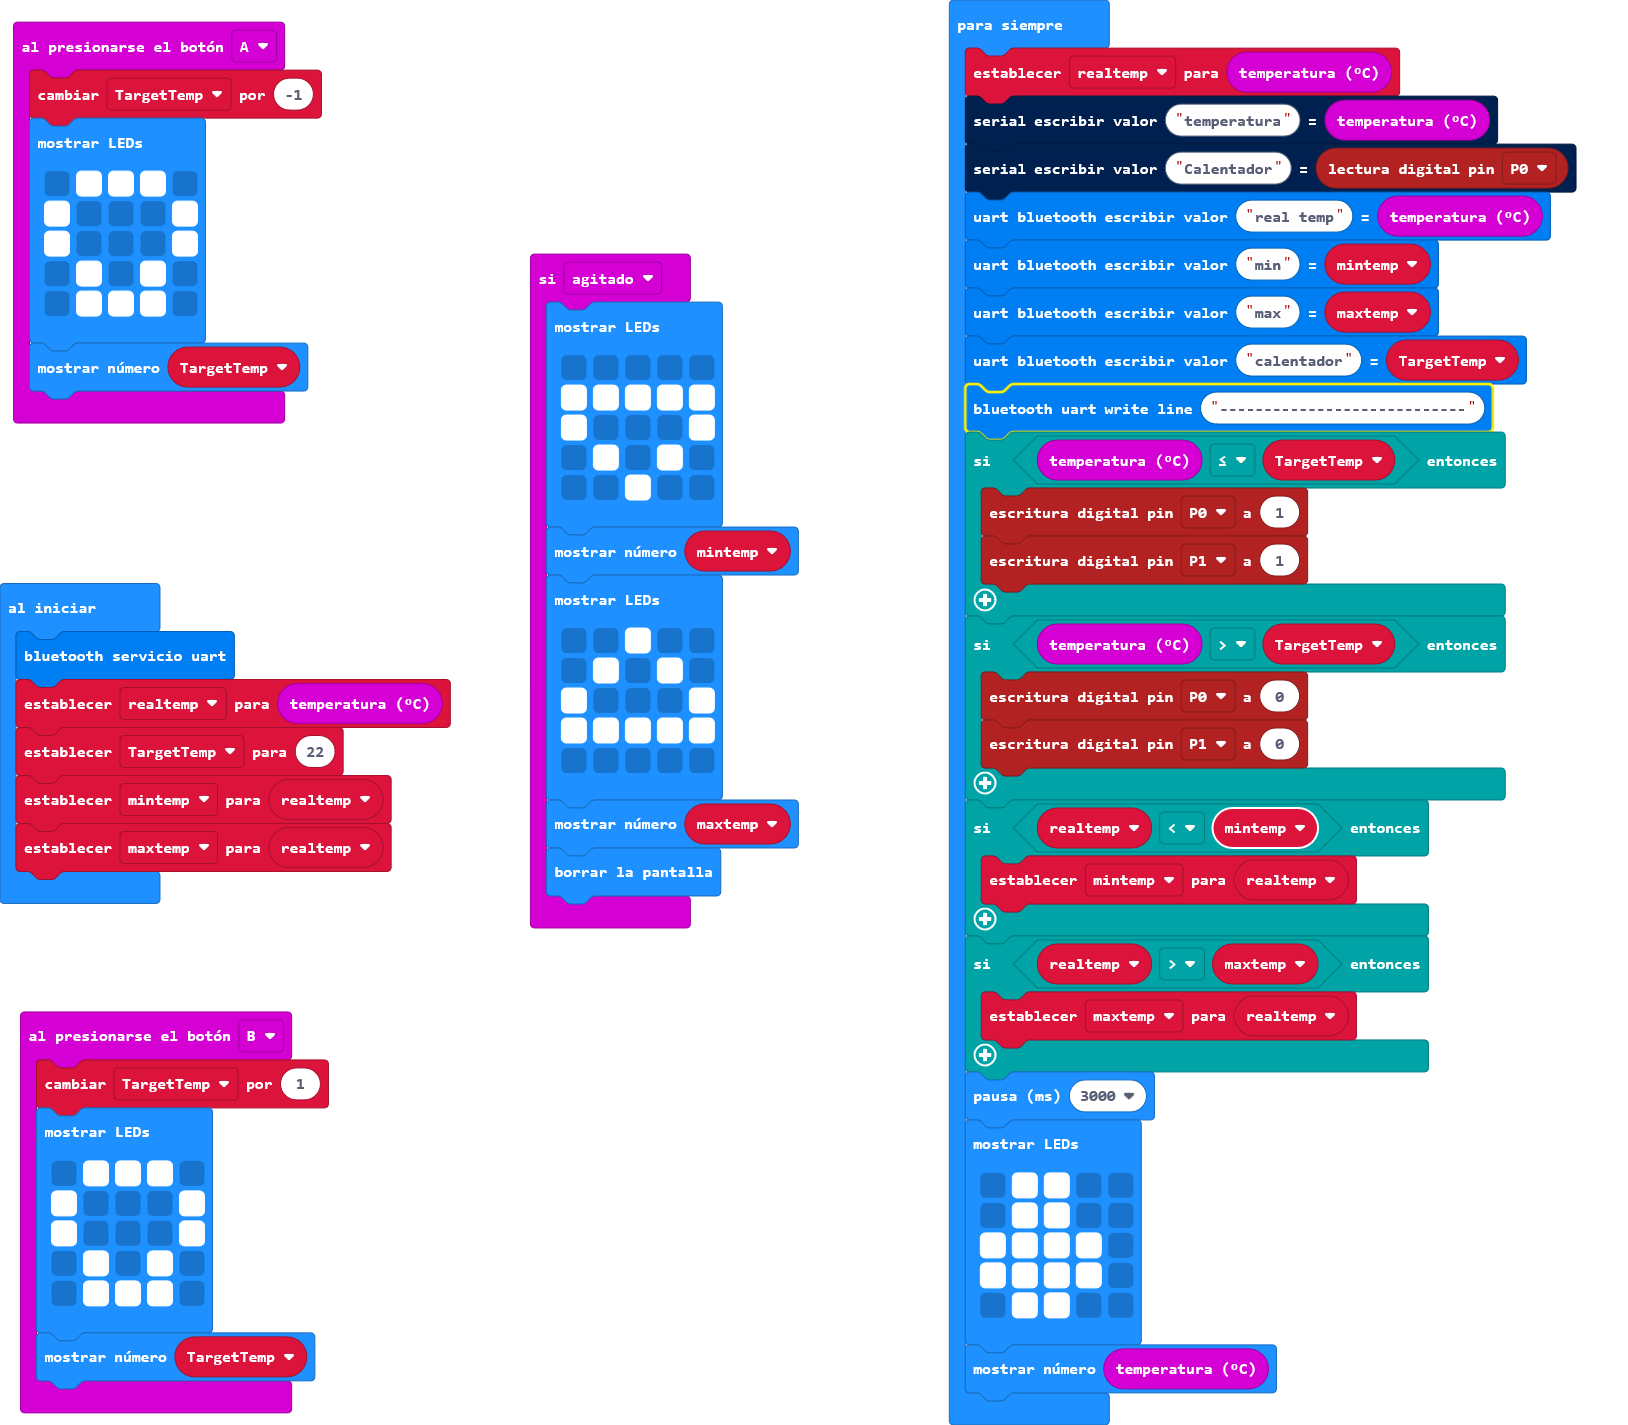
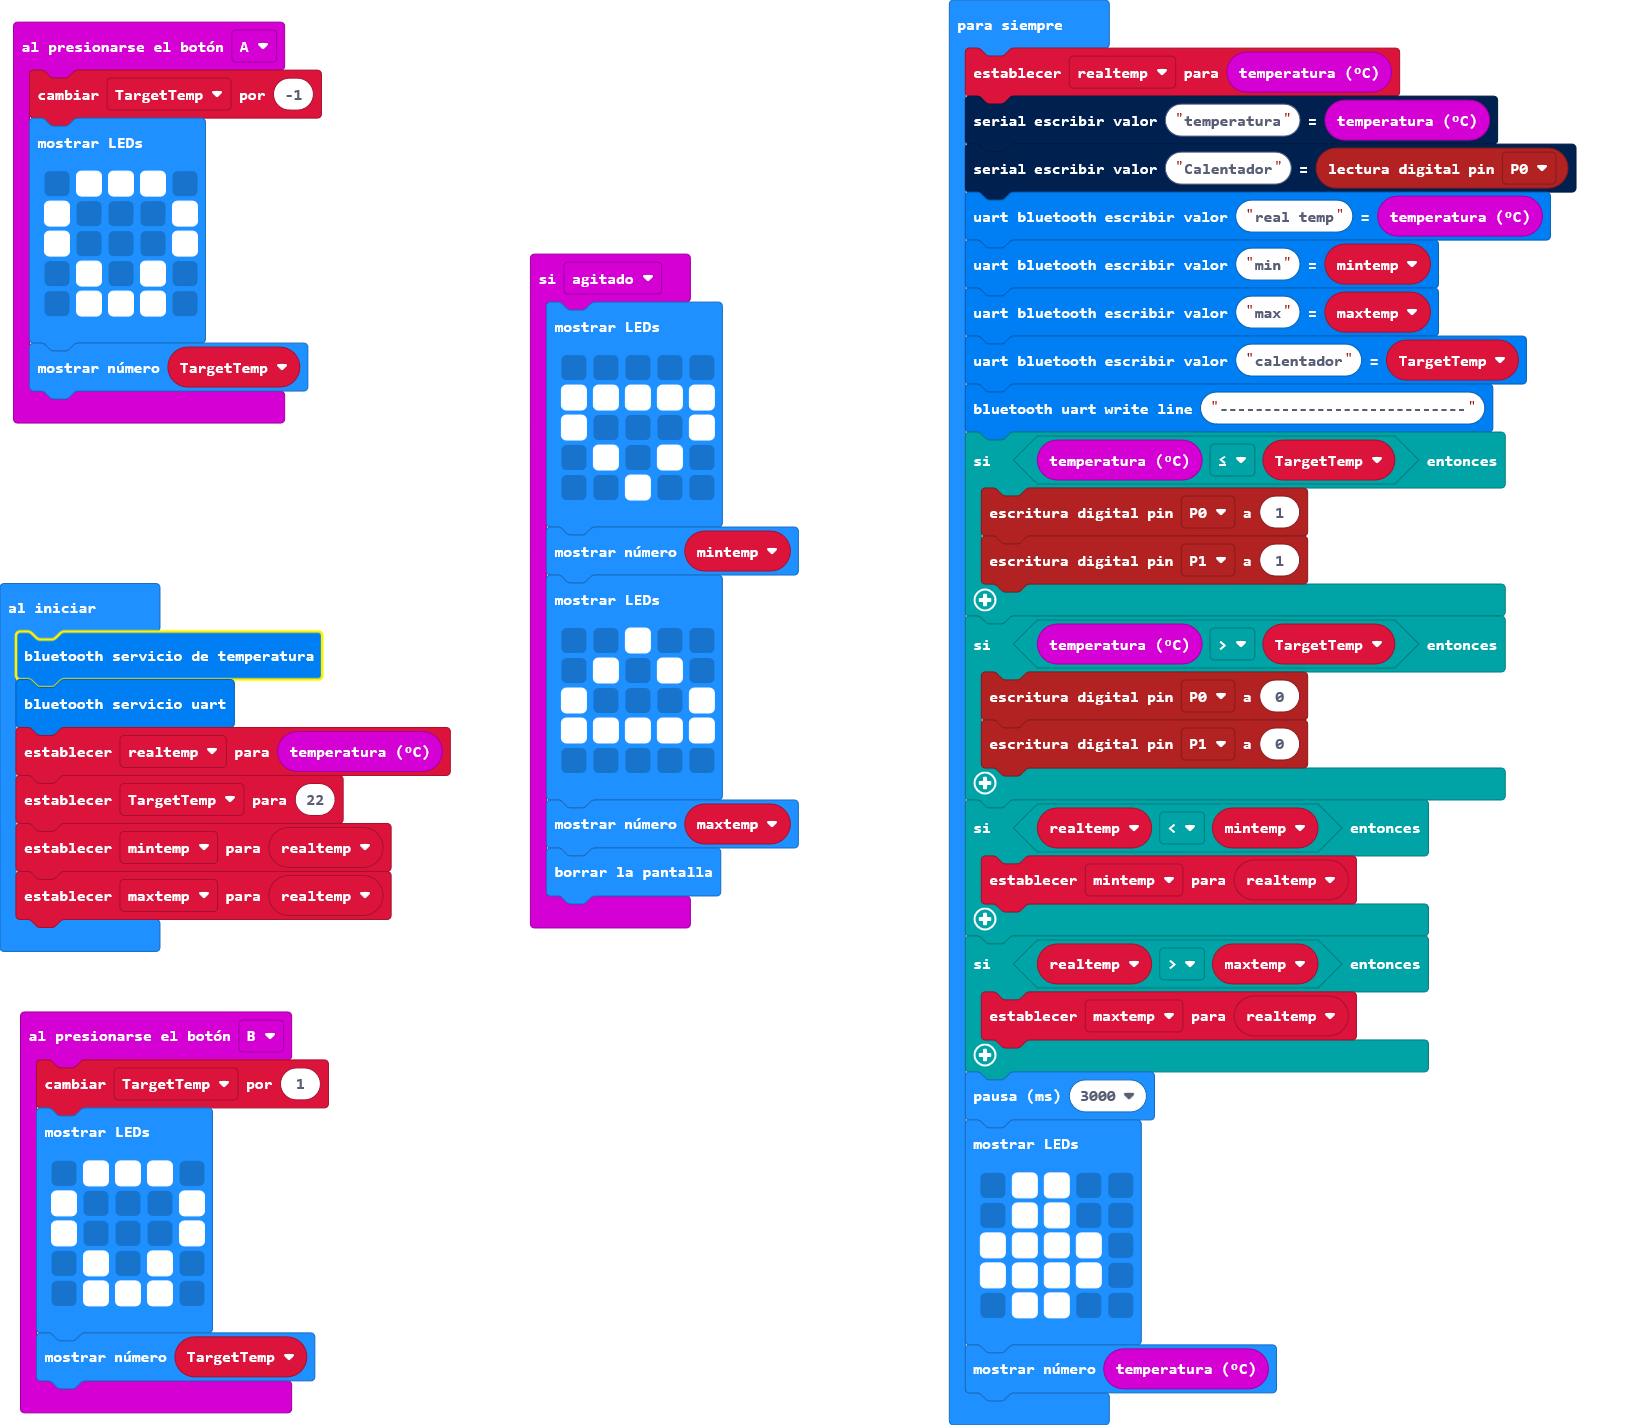
Actualizar main.blocks, main.ts

Changed region(s): [[0.0, 0.4323, 0.2764, 0.6793], [0.8907, 0.2779, 0.9214, 0.3088], [0.5835, 0.2779, 0.6143, 0.3088]]

diff --git a/main.ts b/main.ts
@@ -42,6 +42,7 @@ input.onButtonPressed(Button.B, function () {
 let maxtemp = 0
 let mintemp = 0
 let TargetTemp = 0
+bluetooth.startTemperatureService()
 bluetooth.startUartService()
 let realtemp = input.temperature()
 TargetTemp = 22
